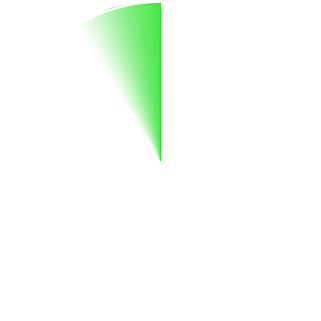
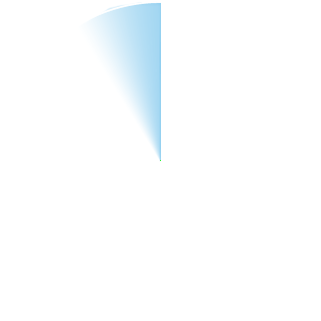
prepare for production

Changed region(s): [[0.2804, 0.0, 0.4984, 0.4984]]

diff --git a/public/modules/tiles/controllers/tiles.js b/public/modules/tiles/controllers/tiles.js
@@ -8,8 +8,28 @@ angular.module('mean.tiles').filter('capitalize', function() {
   for (var i=0; i<words.length; ++i) {
     array.push(words[i].charAt(0).toUpperCase() + words[i].toLowerCase().slice(1))
   }
-  return array.join(' ')
+  return array.join(' ');
  }
+}).filter('fixprice', function() {
+ return function(input, scope) {
+ if (input!=null){
+  var fixed = input;
+  console.log("input: "+fixed);
+  fixed = fixed.replace(" MILLION","MIL");
+  fixed = fixed.replace(",000","K");
+  if(fixed.indexOf("-") != -1){
+    var array = fixed.split("");
+    array.splice(fixed.indexOf("-"),1000);
+    fixed = array.join("");
+  }
+  console.log("fixed: "+fixed)
+  return fixed;
+}
+ 
+ else{
+  return input;
+ }
+}
 });
 
 angular.module('mean.tiles').controller('TilesCtrl', ['$scope', '$http', '$cookies',
@@ -251,6 +271,7 @@ angular.module('mean.tiles').controller('TilesCtrl', ['$scope', '$http', '$cooki
             if($scope.nav_open == false){
               $("#tileMain").addClass("nav-open").removeClass("nav-close");
               showOccupied();
+              favoriteCheck();
               $scope.$apply(function(){
                 $scope.nav_open = true;
               });
@@ -293,7 +314,6 @@ angular.module('mean.tiles').controller('TilesCtrl', ['$scope', '$http', '$cooki
 
         setTimeout(function(){
           move(direction);
-          showOccupied();
           $("#tile" + direction).removeClass("center-tile", "show");
           $("#tileMain").removeClass("hide");
         },400);
@@ -314,6 +334,8 @@ angular.module('mean.tiles').controller('TilesCtrl', ['$scope', '$http', '$cooki
         else if(direction == "Down"){
           $scope.moveDown();
         }
+        showOccupied();
+        favoriteCheck();
 
       }
 
@@ -417,7 +439,7 @@ angular.module('mean.tiles').controller('TilesCtrl', ['$scope', '$http', '$cooki
     })();
 
     var showOccupied = function(){
-      $(".radar-points").removeClass("obj").removeClass("prize").removeClass("two-user").removeClass("multi-user").removeClass("heart");
+      $(".radar-points").removeClass("obj").removeClass("prize").removeClass("two-user").removeClass("multi-user").removeClass("heart").removeClass("towel");
       console.log("My Postion: "+ $scope.hPosition + " Cat: " + $scope.currentCategory);
       for(var i = 0; i<$scope.allTiles.length; i++){
         var grid = "ROW: ";
@@ -455,6 +477,12 @@ angular.module('mean.tiles').controller('TilesCtrl', ['$scope', '$http', '$cooki
             $("#"+(8+i-$scope.currentCategory)+(8+j-$scope.hPosition)).addClass("prize").addClass("obj");
             // console.log($scope.allTiles[i][j].likes);
             grid+="P";
+            none = false;
+          }
+          if($scope.allTiles[i][j].prize == "towel"){
+            $("#"+(8+i-$scope.currentCategory)+(8+j-$scope.hPosition)).addClass("towel").addClass("obj");
+            // console.log($scope.allTiles[i][j].likes);
+            grid+="T";
             none = false;
           }
           if(none == true){
@@ -749,6 +777,7 @@ angular.module('mean.tiles').controller('TilesCtrl', ['$scope', '$http', '$cooki
     // Add more categories/tiles when user reaches edge of grid
 
     $scope.loadMoreTiles = function(side) {
+      console.log("hey");
       $http.post('/tiles/more/' + side, {alltiles: $scope.allTiles})
         .success(function(response){
           $scope.allTiles = response;
@@ -764,9 +793,7 @@ angular.module('mean.tiles').controller('TilesCtrl', ['$scope', '$http', '$cooki
           $scope.tileLeft = $scope.allTiles[$scope.currentCategory][$scope.hPosition - 1];
           $scope.tileRight = $scope.allTiles[$scope.currentCategory][$scope.hPosition + 1];
 
-
         });
-
         // Checking for location bug
         for(var i = 0; i < $scope.allTiles.length; i++){
           for(var j = 0; j < $scope.allTiles.length; j++){

diff --git a/public/css/master.css b/public/css/master.css
@@ -409,6 +409,17 @@ h1, h2, h3 {
             background-size: contain;
             background-position: center;
             background-repeat: no-repeat; }
+          #showTile #navigation-instructions #navi-content #radar .obj.towel {
+            background: none;
+            box-shadow: none;
+            background-image: url(../img/brand/towelie.png);
+            height: 20px;
+            width: 20px;
+            margin-top: -4px;
+            margin-left: -4px;
+            background-size: contain;
+            background-position: center;
+            background-repeat: no-repeat; }
           #showTile #navigation-instructions #navi-content #radar .obj.prize {
             background: none;
             box-shadow: none;
@@ -443,6 +454,8 @@ h1, h2, h3 {
               #showTile #navigation-instructions .kiss.buttons button.share a:active, #showTile #navigation-instructions .kiss.buttons button.share a:hover {
                 color: black;
                 text-decoration: none; }
+            #showTile #navigation-instructions .kiss.buttons button.share.gold {
+              background-color: rgba(88, 201, 243, 0.7); }
         #showTile #navigation-instructions .kiss.buttons #share-link {
           font-size: 0.34em;
           -webkit-touch-callout: text;
@@ -453,20 +466,20 @@ h1, h2, h3 {
           user-select: text; }
       #showTile #navigation-instructions .kiss.top {
         position: absolute;
-        color: tomato;
+        color: #58c9f3;
         top: 0px;
         left: 45%; }
       #showTile #navigation-instructions .kiss.left {
-        color: tomato;
+        color: #58c9f3;
         top: 45%;
         left: 10px; }
       #showTile #navigation-instructions .kiss.right {
         top: 45%;
-        color: tomato;
+        color: #58c9f3;
         right: 10px; }
       #showTile #navigation-instructions .kiss.bottom {
         position: absolute;
-        color: tomato;
+        color: #58c9f3;
         bottom: 10px;
         left: 45%; }
   #showTile .show {
@@ -512,27 +525,34 @@ h1, h2, h3 {
   position: fixed;
   z-index: 10;
   background-color: white;
-  height: 94px;
+  height: 50px;
   width: 100% !important; }
   #favorites .page-header .control {
-    background-color: black;
-    height: 30px; }
+    background-color: white;
+    height: 25px; }
     #favorites .page-header .control .brand {
       font-family: 'Great Vibes', 'Open Sans', 'Helvetica', Helvetica, sans-serif;
       padding-left: 10px;
-      color: rgba(255, 255, 255, 0.8);
+      color: #58c9f3;
       font-size: 1.5em; }
-    #favorites .page-header .control a {
+    #favorites .page-header .control .back {
+      z-index: 10;
       font-size: 1.4em;
       padding-right: 10px;
-      color: white;
+      padding-bottom: 17px;
+      margin-top: -3px;
+      margin-right: -6px;
+      color: black;
       text-align: right; }
+      #favorites .page-header .control .back img {
+        height: 31px; }
   #favorites .page-header h1 {
-    margin-top: 10px;
+    margin-top: -7px;
     padding-left: 5px;
-    text-align: center; }
+    text-align: center;
+    font-size: 1.5em; }
 #favorites .list-group {
-  padding-top: 94px; }
+  padding-top: 50px; }
   #favorites .list-group .list-group-item {
     border-radius: 0px;
     border: none;

diff --git a/public/sass/master.scss b/public/sass/master.scss
@@ -576,6 +576,18 @@ h1, h2, h3 {
             background-position: center;
             background-repeat: no-repeat;
           }
+          &.towel{
+            background: none;
+            box-shadow:none;
+            background-image: url(../img/brand/towelie.png);
+            height: 20px;
+            width: 20px;
+            margin-top:-4px;
+            margin-left:-4px;
+            background-size: contain;
+            background-position: center;
+            background-repeat: no-repeat;
+          }
           &.prize{
             background: none;
             box-shadow:none;
@@ -610,6 +622,9 @@ h1, h2, h3 {
                 text-decoration: none;
               }
             }
+            &.gold{
+              background-color: rgba(88,201,243,0.7);
+            }
           }
           margin:0 auto;
           border-radius: 0;
@@ -634,23 +649,23 @@ h1, h2, h3 {
       }
       &.top {
         position: absolute;
-        color: tomato;
+        color: #58c9f3;
         top: 0px;
         left: 45%;
       }
       &.left {
-        color: tomato;
+        color: #58c9f3;
         top: 45%;
         left: 10px;
       }
       &.right {
         top: 45%;
-        color: tomato;
+        color: #58c9f3;
         right: 10px;
       }
       &.bottom {
         position: absolute;
-        color: tomato;
+        color: #58c9f3;
         bottom: 10px;
         left: 45%;
       }
@@ -727,34 +742,43 @@ h1, h2, h3 {
     position: fixed;
     z-index: 10;
     background-color: white;
-    height: 94px;
+    height: 50px;
     width: 100% !important;
     .control{
-      background-color: black;
-      height: 30px;
+      background-color: white;
+      height: 25px;
       .brand{
         font-family: 'Great Vibes', 'Open Sans', 'Helvetica', Helvetica, sans-serif;
         padding-left: 10px;
-        color: rgba(255,255,255,0.8);
+        color: #58c9f3;
         font-size: 1.5em;
       }
-      a{
+      .back{
+      z-index: 10;
       font-size: 1.4em;
       padding-right: 10px;
-      color: white;
+      padding-bottom: 17px;
+      margin-top: -3px;
+      margin-right: -6px;
+      color: black;
       text-align: right;
+        img{
+          height: 31px;
+        }
+      }
     }
-    }
+  
     h1{
-      margin-top: 10px;
+      margin-top: -7px;
       padding-left: 5px;
       text-align: center;
+      font-size: 1.5em;
     }
     
   }
 
   .list-group{
-    padding-top: 94px;
+    padding-top: 50px;
     .list-group-item{
       border-radius: 0px;
       border: none;

diff --git a/public/modules/tiles/views/show.html b/public/modules/tiles/views/show.html
@@ -13,14 +13,14 @@
         <img src="http://storage.googleapis.com/gloss/tiles/{{tileMain.imgUrl}}" alt="...apologies, Hai must've broken something!">
         <div class="tile-info">
           <h1>{{tileMain.name}}</h1>
-          <!-- <h5>${{tileMain.price}}</h5> -->
+          <!-- <h5>${{tileMain.price | fixprice}}</h5> -->
           <div class="tile-desc"><p>{{tileMain.content}}</p></div>
         </div>
       </div>
       <div class="tile-footer">
         <i class="fa fa-heart" ng-class="{'liked': votedOnTile}" ng-click="updateLikes()"></i><span>{{tileMain.likes}}</span>
         <h3 id="buy">BUY NOW</h3>
-        <h4>${{tileMain.price}}</h4>
+        <h4>${{tileMain.price | fixprice}}</h4>
       </div>
     </div>
 
@@ -36,7 +36,7 @@
       <div class="tile-footer">
         <i class="fa fa-heart" ng-class="{'liked': votedOnTile}" ng-click="updateLikes()"></i><span>{{tileLeft.likes}}</span>
         <h3 id="buy">BUY NOW</h3>
-        <h4>${{tileLeft.price}}</h4>
+        <h4>${{tileLeft.price | fixprice}}</h4>
       </div>
     </div>
 
@@ -52,7 +52,7 @@
       <div class="tile-footer">
         <i class="fa fa-heart" ng-class="{'liked': votedOnTile}" ng-click="updateLikes()"></i><span>{{tileRight.likes}}</span>
         <h3 id="buy">BUY NOW</h3>
-        <h4>${{tileRight.price}}</h4>
+        <h4>${{tileRight.price | fixprice}}</h4>
       </div>
     </div>
 
@@ -68,7 +68,7 @@
       <div class="tile-footer">
         <i class="fa fa-heart" ng-class="{'liked': votedOnTile}" ng-click="updateLikes()"></i><span>{{tileUp.likes}}</span>
         <h3 id="buy">BUY NOW</h3>
-        <h4>${{tileUp.price}}</h4>
+        <h4>${{tileUp.price | fixprice}}</h4>
       </div>
     </div>
 
@@ -84,7 +84,7 @@
       <div class="tile-footer">
         <i class="fa fa-heart" ng-class="{'liked': votedOnTile}" ng-click="updateLikes()"></i><span>{{tileDown.likes}}</span>
         <h3 id="buy">BUY NOW</h3>
-        <h4>${{tileDown.price}}</h4>
+        <h4>${{tileDown.price | fixprice}}</h4>
       </div>
     </div>
 
@@ -112,7 +112,7 @@
             </div>
             <div class="kiss buttons" ng-show="!firstTime">
               <!-- <h3 id="share-link" ng-show="share">http://localhost:3000/#!/tile/shared/{{tileMain._id}}</h3> -->
-              <button class="btn share" ng-click="addFavorite()">FAVORITE</button>
+              <button class="btn share" ng-click="addFavorite()" ng-class="{'gold': favoriteTile}">FAVORITE</button>
             </div>
           </div>
         <i class="fa fa-angle-right kiss right"></i>

diff --git a/public/modules/tiles/views/favorites.html b/public/modules/tiles/views/favorites.html
@@ -2,9 +2,9 @@
   <div class="page-header col-xs-12">
     <div class="control col-xs-12">
     <div class="brand pull-left">gloss</div>
-    <a class="col-xs-4 pull-right"><i class="fa fa-angle-left"></i>&nbsp;BACK</a>
+    <a class="back col-xs-4 pull-right" ng-href="#!/"><img src="../img/brand/back.svg"></a>
   </div>
-    <h1 class="col-xs-12">Favorites</h1>
+    <h1 class="col-xs-12">FAVORITES</h1>
   </div>
   <div class="list-group">
     <a ng-class-odd="'dark'" data-ng-repeat="favorite in favorites" data-ng-href="#!/favorites/{{favorite._id}}" class="list-group-item col-xs-12">
@@ -12,7 +12,7 @@
       <div class="col-xs-9">
       <p class="list-group-item-heading">{{favorite.name | capitalize}}</p>
       <p class="list-group-item-text">
-        {{favorite.category}}
+        {{favorite.category}} ${{favorite.price}}
         <span class="pull-right"><i class="fa fa-heart" ng-class="{'liked': votedOnTile}" ></i><span class="likes">{{favorite.likes}}</span></span>
       </p>
       </div>
